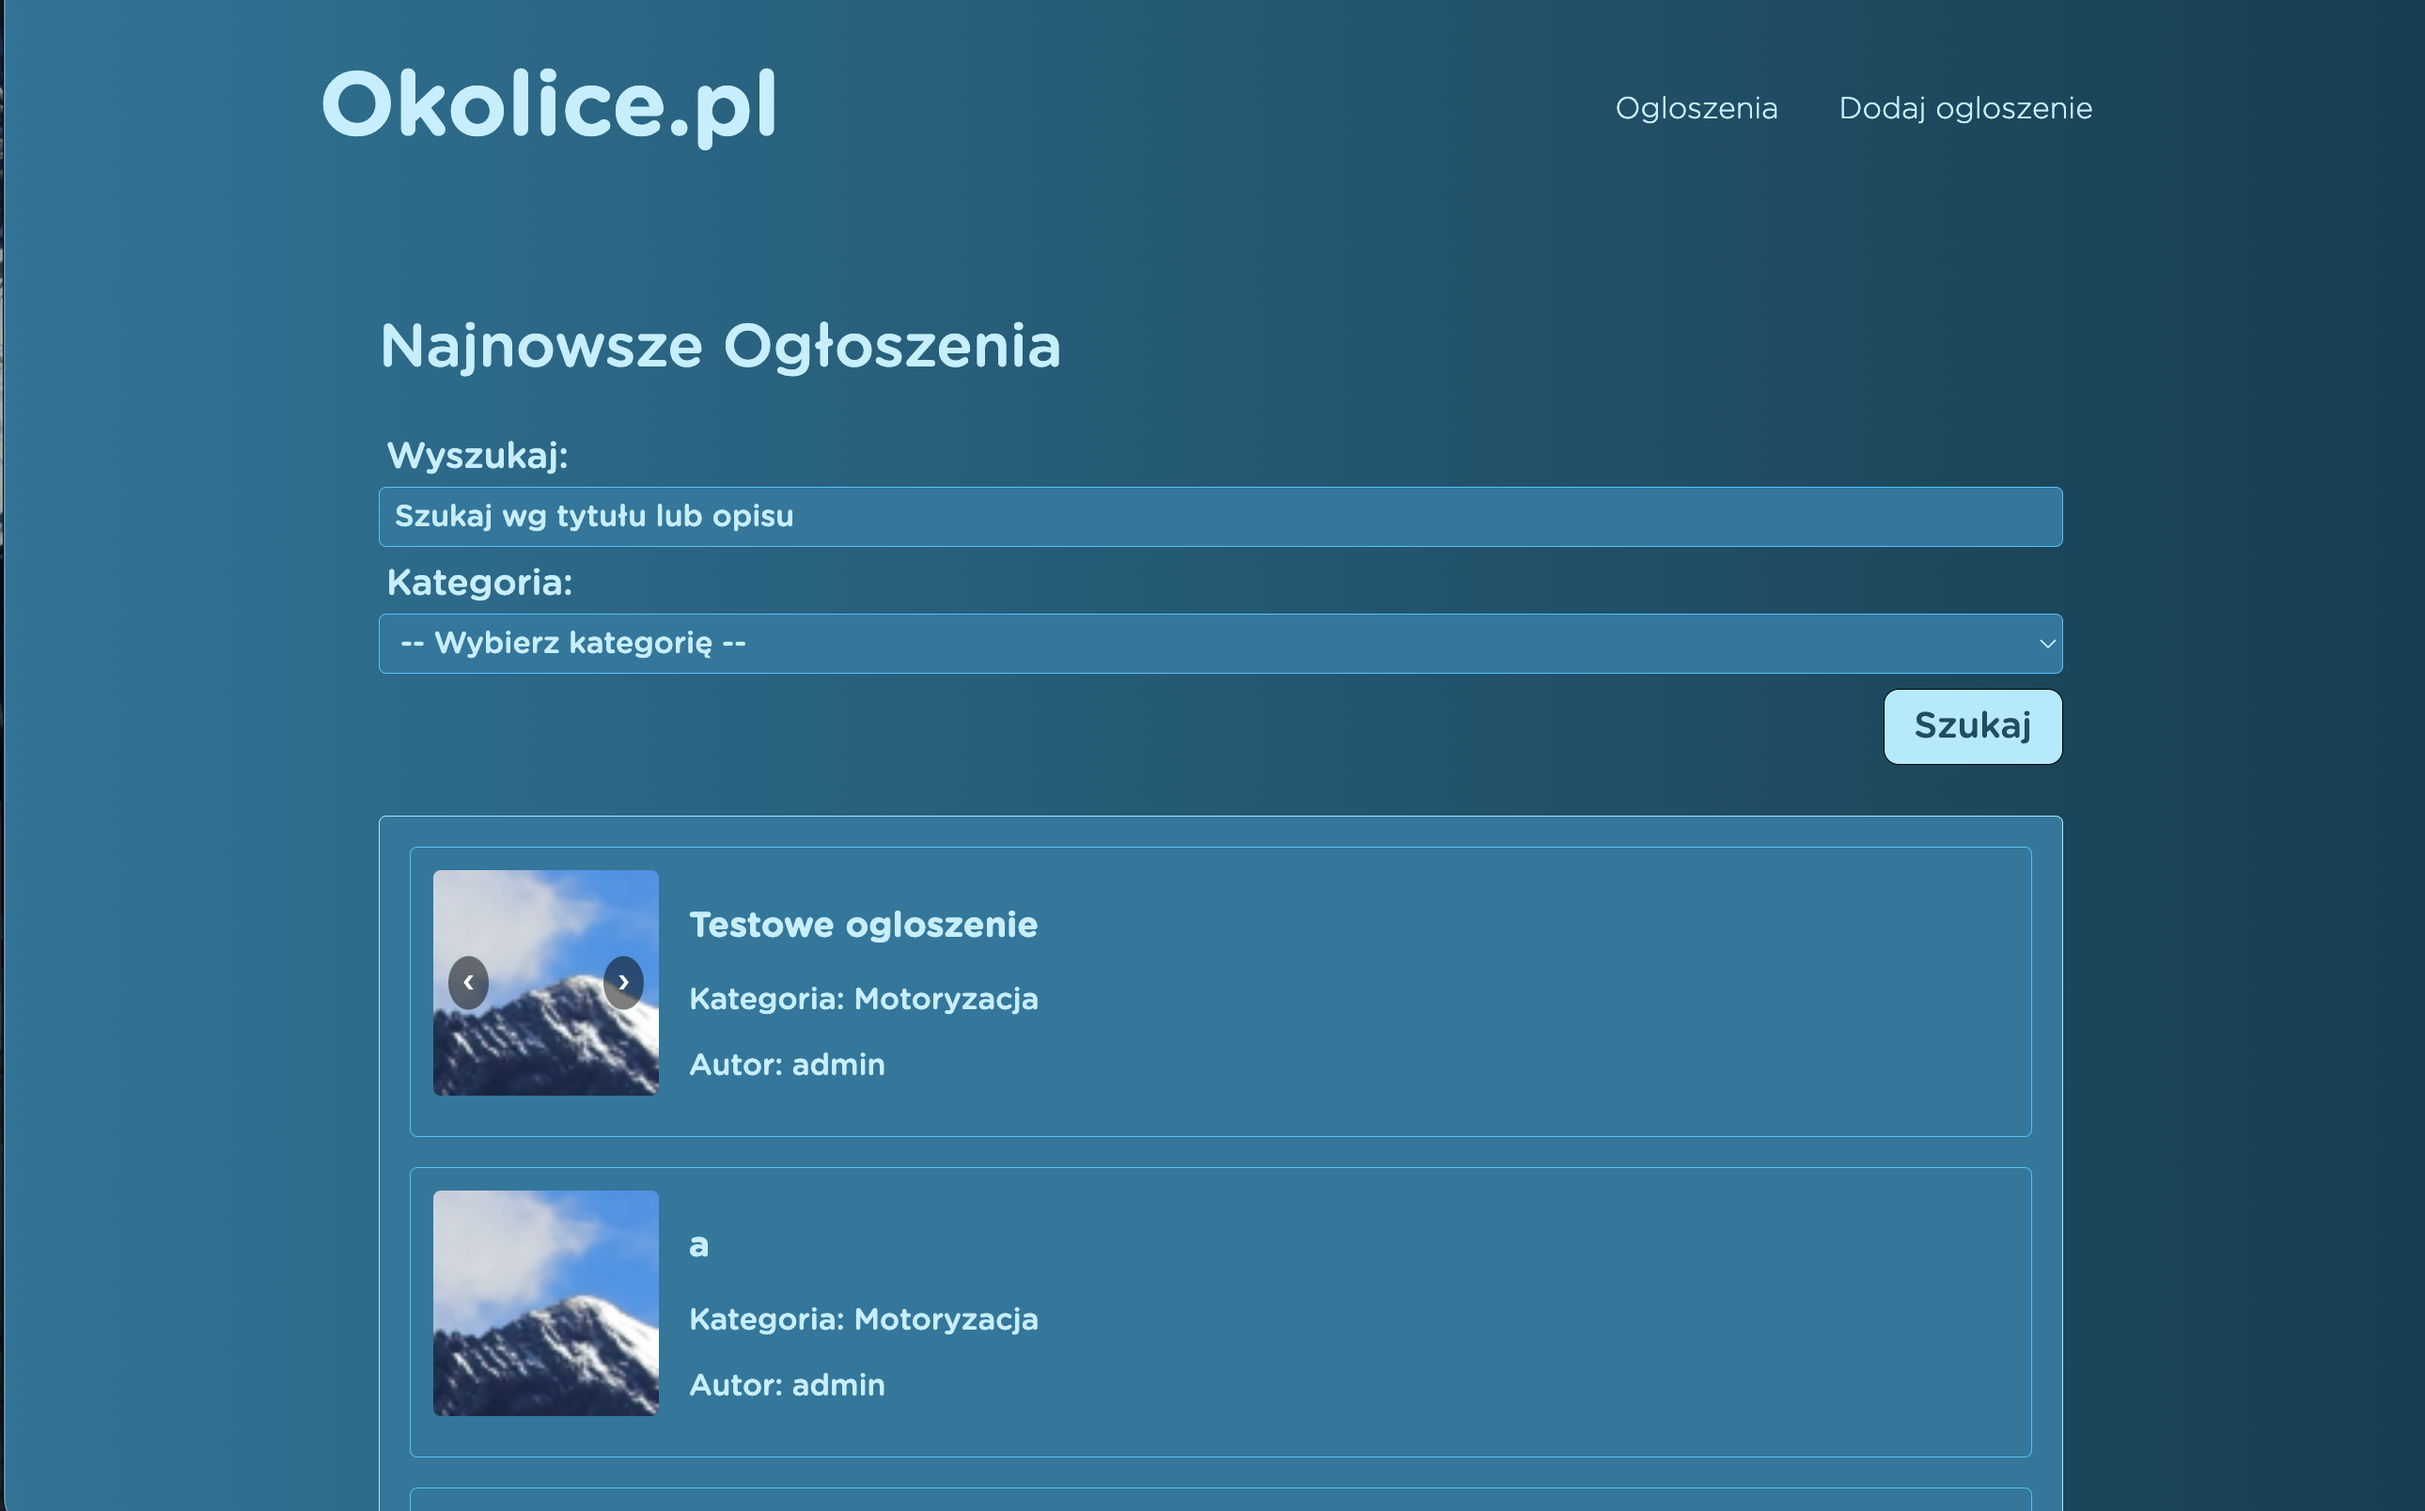
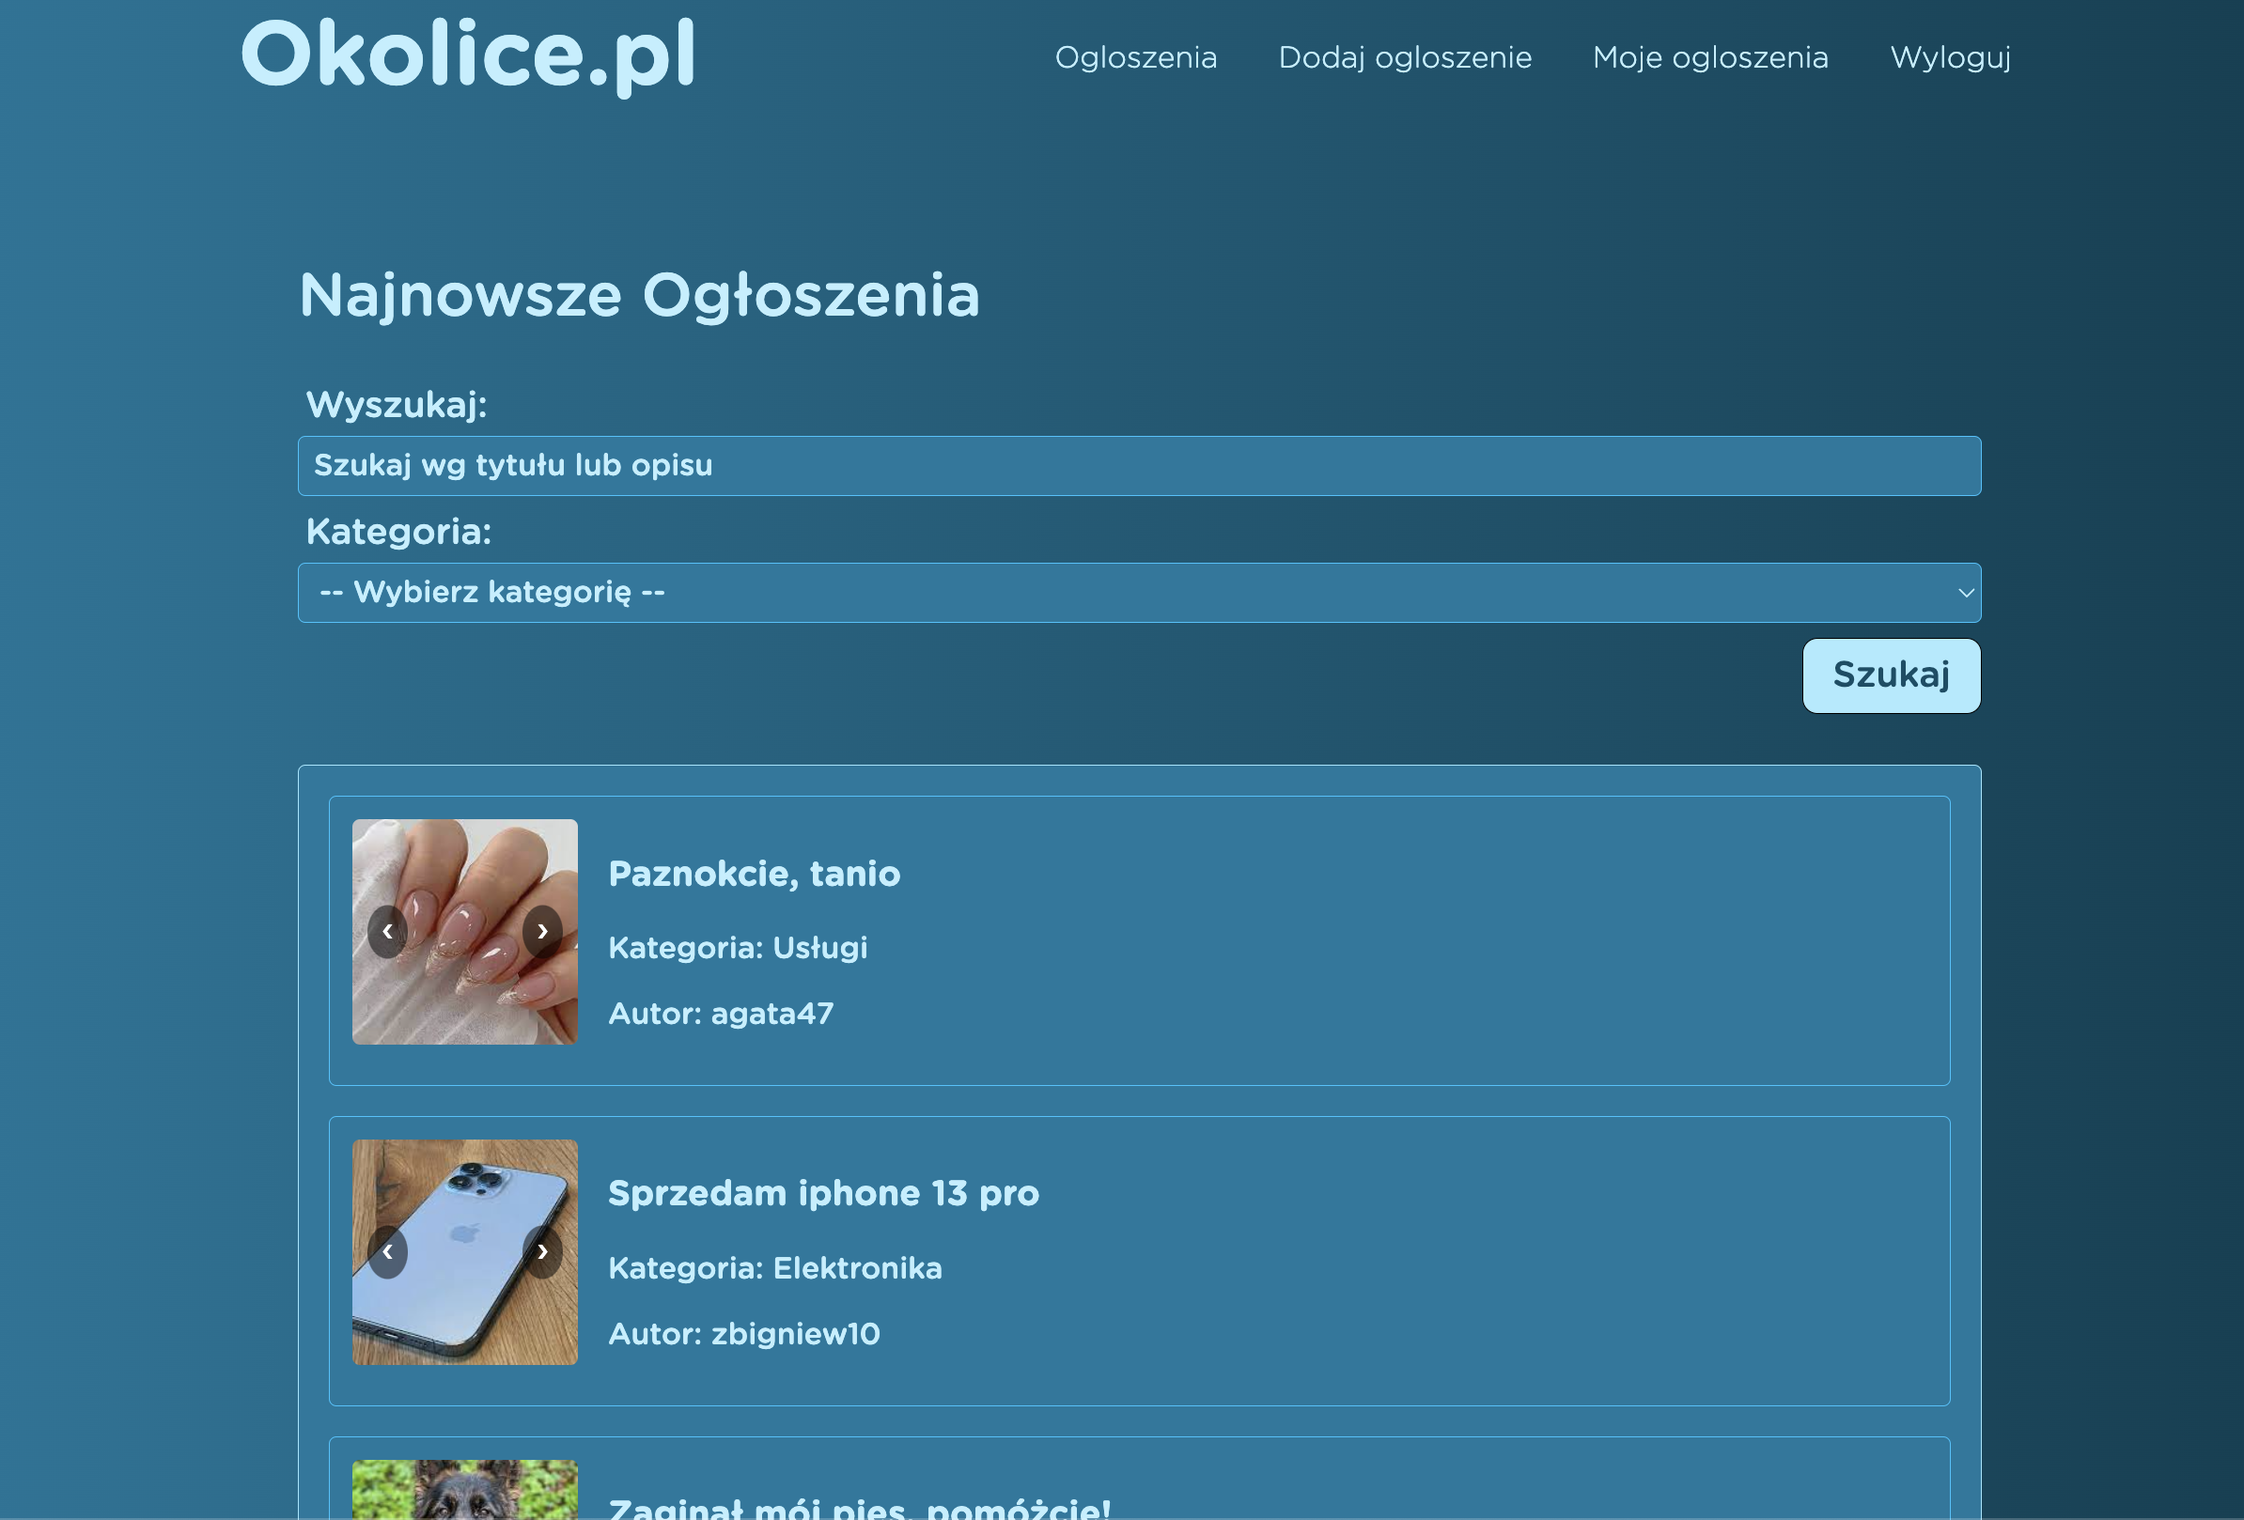
widoki, readme

diff --git a/public/stylesheets/shared/images.css b/public/stylesheets/shared/images.css
@@ -13,7 +13,20 @@
     position: relative; */
 }
 
-.image-large {
+/* .image-large {
     width: var(--image-width-large);
     height: calc(var(--image-width-large) * var(--image-aspect-ratio));
+} */
+
+.image-grid {
+    display: grid;
+    grid-template-columns: repeat(auto-fill, minmax(300px, 1fr));
+    gap: 10px; /* Odstępy między obrazami */
+}
+
+.image-large {
+    width: 100%;
+    height: 300px; /* Możesz dostosować tę wartość do pożądanej wysokości */
+    object-fit: cover;
+    display: block;
 }

diff --git a/models/post.js b/models/post.js
@@ -5,7 +5,7 @@ const postSchema = new mongoose.Schema({
     description: { type: String, required: true },
     category: {
         type: String,
-        enum: ['Motoryzacja', 'Nieruchomości', 'Elektronika', 'Moda', 'Sport', 'Hobby', 'Usługi', 'Praca'],
+        enum: ['Motoryzacja', 'Nieruchomości', 'Elektronika', 'Moda', 'Sport', 'Hobby', 'Usługi', 'Praca', 'Zwierzęta'],
         required: true
       },
     author: { type: mongoose.Schema.Types.ObjectId, ref: 'User', required: true },

diff --git a/README.md b/README.md
@@ -1,6 +1,8 @@
 # Okolice.pl - strona internetowa z ogłoszeniami
 
 ![strona glowna](public/images/strona-glowna.png)
+![strona ogloszenia](public/images/strona-ogloszenia.png)
+![nowe ogloszenie](public/images/nowe ogloszenie.png)
 
 
 ## Załozenia projektu
